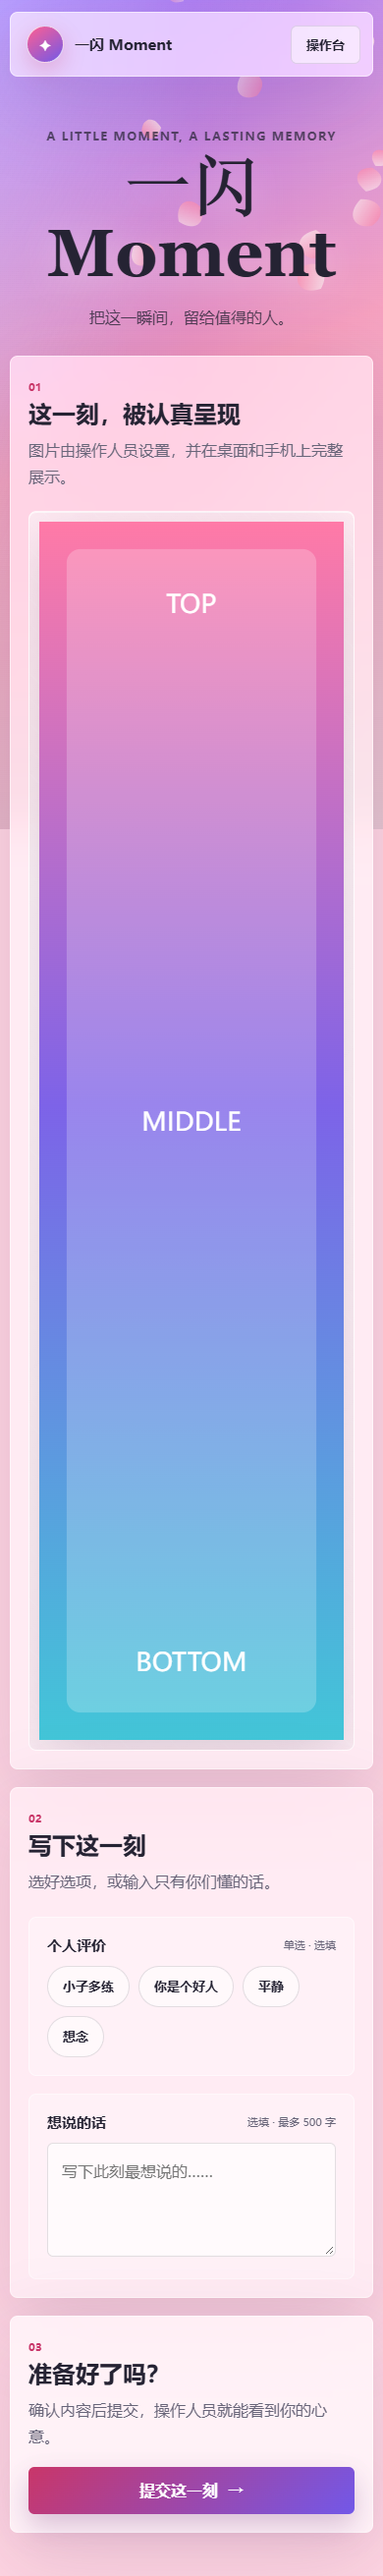
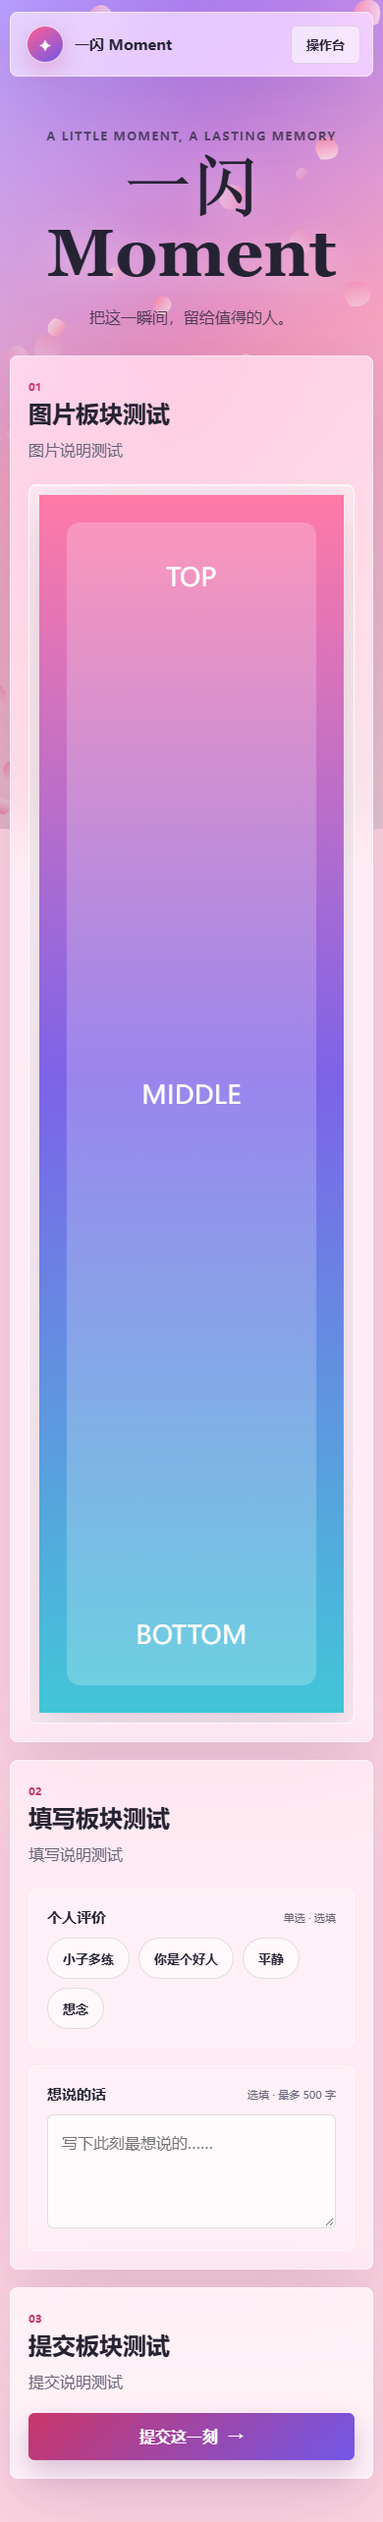
feat: add configurable section copy and align admin buttons

diff --git a/public/admin-edit.html b/public/admin-edit.html
@@ -58,7 +58,20 @@
 
       <section class="editor-section">
         <div class="editor-heading">
-          <div><span class="section-index">02</span><h2>展示图片与预设</h2></div>
+          <div><span class="section-index">02</span><h2>板块名称与说明</h2></div>
+        </div>
+        <div class="editor-grid">
+          <label>图片板块名称<input id="image-title-input" type="text" maxlength="40" required></label>
+          <label>图片板块说明<input id="image-description-input" type="text" maxlength="100" required></label>
+          <label>填写板块名称<input id="response-title-input" type="text" maxlength="40" required></label>
+          <label>填写板块说明<input id="response-description-input" type="text" maxlength="100" required></label>
+          <label>提交板块名称<input id="submit-title-input" type="text" maxlength="40" required></label>
+          <label>提交板块说明<input id="submit-description-input" type="text" maxlength="100" required></label>
+        </div>
+      </section>
+      <section class="editor-section">
+        <div class="editor-heading">
+          <div><span class="section-index">03</span><h2>展示图片与预设</h2></div>
           <div class="editor-actions">
             <label class="text-button" for="image-upload-admin">上传图片<input id="image-upload-admin" type="file" accept="image/*" hidden></label>
             <button id="add-image" class="text-button" type="button">添加图片链接</button>
@@ -69,7 +82,7 @@
 
       <section class="editor-section">
         <div class="editor-heading">
-          <div><span class="section-index">03</span><h2>文本栏与选项栏</h2></div>
+          <div><span class="section-index">04</span><h2>文本栏与选项栏</h2></div>
           <div class="editor-actions">
             <button id="add-text-field" class="text-button" type="button">添加文本栏</button>
             <button id="add-choice-field" class="primary-button" type="button">添加选项栏</button>
@@ -79,7 +92,7 @@
       </section>
       <section class="editor-section qr-section">
         <div class="editor-heading">
-          <div><span class="section-index">04</span><h2>参与者二维码</h2></div>
+          <div><span class="section-index">05</span><h2>参与者二维码</h2></div>
           <div class="editor-actions">
             <button id="generate-qr-secondary" class="text-button" type="button">刷新二维码</button>
             <button id="save-qr-secondary" class="primary-button" type="button">保存二维码</button>
@@ -103,5 +116,6 @@
   <script src="/admin-edit.js"></script>
 </body>
 </html>
+
 
 

diff --git a/public/admin-edit.js b/public/admin-edit.js
@@ -9,6 +9,12 @@ const elements = {
   description: document.querySelector('#description-input'),
   background: document.querySelector('#background-select'),
   imageRequired: document.querySelector('#image-required'),
+  imageTitle: document.querySelector('#image-title-input'),
+  imageDescription: document.querySelector('#image-description-input'),
+  responseTitle: document.querySelector('#response-title-input'),
+  responseDescription: document.querySelector('#response-description-input'),
+  submitTitle: document.querySelector('#submit-title-input'),
+  submitDescription: document.querySelector('#submit-description-input'),
   images: document.querySelector('#images-editor'),
   fields: document.querySelector('#fields-editor'),
   addImage: document.querySelector('#add-image'),
@@ -115,6 +121,12 @@ function syncBasicForm() {
   elements.description.value = config.description;
   elements.background.value = config.background;
   elements.imageRequired.checked = Boolean(config.imageRequired);
+  elements.imageTitle.value = config.sections.image.title;
+  elements.imageDescription.value = config.sections.image.description;
+  elements.responseTitle.value = config.sections.response.title;
+  elements.responseDescription.value = config.sections.response.description;
+  elements.submitTitle.value = config.sections.submit.title;
+  elements.submitDescription.value = config.sections.submit.description;
 }
 
 function moveItem(list, index, direction) {
@@ -128,6 +140,11 @@ function collectConfig() {
   config.description = elements.description.value.trim() || '把这一瞬间，留给值得的人。';
   config.background = elements.background.value;
   config.imageRequired = elements.imageRequired.checked;
+  config.sections = {
+    image: { title: elements.imageTitle.value.trim(), description: elements.imageDescription.value.trim() },
+    response: { title: elements.responseTitle.value.trim(), description: elements.responseDescription.value.trim() },
+    submit: { title: elements.submitTitle.value.trim(), description: elements.submitDescription.value.trim() }
+  };
 
   elements.images.querySelectorAll('[data-image-field]').forEach((input) => {
     const index = Number(input.dataset.index);
@@ -340,3 +357,4 @@ async function init() {
 }
 
 init();
+

diff --git a/public/app.js b/public/app.js
@@ -13,7 +13,13 @@ const elements = {
   submit: document.querySelector('#submit-button'),
   toast: document.querySelector('#toast'),
   title: document.querySelector('h1'),
-  description: document.querySelector('#page-description')
+  description: document.querySelector('#page-description'),
+  imageTitle: document.querySelector('#image-title'),
+  imageDescription: document.querySelector('#image-description'),
+  responseTitle: document.querySelector('#response-title'),
+  responseDescription: document.querySelector('#response-description'),
+  submitTitle: document.querySelector('#submit-title'),
+  submitDescription: document.querySelector('#submit-description')
 };
 
 function showToast(message, duration = 2800) {
@@ -115,6 +121,12 @@ function collectAnswers() {
 function renderParticipant() {
   elements.title.textContent = state.config.title;
   elements.description.textContent = state.config.description;
+  elements.imageTitle.textContent = state.config.sections.image.title;
+  elements.imageDescription.textContent = state.config.sections.image.description;
+  elements.responseTitle.textContent = state.config.sections.response.title;
+  elements.responseDescription.textContent = state.config.sections.response.description;
+  elements.submitTitle.textContent = state.config.sections.submit.title;
+  elements.submitDescription.textContent = state.config.sections.submit.description;
   state.background = state.config.background || 'pink-plum';
   renderDisplayImage();
   renderFields();
@@ -190,5 +202,7 @@ async function init() {
 }
 
 init();
+
+
 
 

diff --git a/public/index.html b/public/index.html
@@ -33,8 +33,8 @@
       <div class="section-heading">
         <div>
           <span class="section-index">01</span>
-          <h2>这一刻，被认真呈现</h2>
-          <p>图片由操作人员设置，并在桌面和手机上完整展示。</p>
+          <h2 id="image-title">这一刻，被认真呈现</h2>
+          <p id="image-description">图片由操作人员设置，并在桌面和手机上完整展示。</p>
         </div>
       </div>
 
@@ -47,8 +47,8 @@
       <div class="section-heading">
         <div>
           <span class="section-index">02</span>
-          <h2>写下这一刻</h2>
-          <p>选好选项，或输入只有你们懂的话。</p>
+          <h2 id="response-title">写下这一刻</h2>
+          <p id="response-description">选好选项，或输入只有你们懂的话。</p>
         </div>
       </div>
       <div id="fields-container" class="fields-container"></div>
@@ -57,8 +57,8 @@
     <section class="submit-section glass-card">
       <div>
         <span class="section-index">03</span>
-        <h2>准备好了吗？</h2>
-        <p>确认内容后提交，操作人员就能看到你的心意。</p>
+        <h2 id="submit-title">准备好了吗？</h2>
+        <p id="submit-description">确认内容后提交，操作人员就能看到你的心意。</p>
       </div>
       <button id="submit-button" class="submit-button" type="button">
         <span>提交这一刻</span>
@@ -73,6 +73,7 @@
   <script src="/app.js"></script>
 </body>
 </html>
+
 
 
 

diff --git a/lib/store.js b/lib/store.js
@@ -11,6 +11,11 @@ const defaultConfig = {
   background: 'pink-plum',
   imageRequired: true,
   displayImageId: 'plum-window',
+  sections: {
+    image: { title: '这一刻，被认真呈现', description: '图片由操作人员设置，并在桌面和手机上完整展示。' },
+    response: { title: '写下这一刻', description: '选好选项，或输入只有你们懂的话。' },
+    submit: { title: '准备好了吗？', description: '确认内容后提交，操作人员就能看到你的心意。' }
+  },
   images: [
     { id: 'plum-window', label: '梅花窗景', url: '/presets/plum-window.svg' },
     { id: 'city-light', label: '城市流光', url: '/presets/city-light.svg' },
@@ -63,6 +68,11 @@ function normalizeConfig(config) {
   const images = Array.isArray(normalized.images) ? normalized.images : [];
   normalized.images = images;
   normalized.fields = Array.isArray(normalized.fields) ? normalized.fields : [];
+  normalized.sections = {
+    image: { ...defaultConfig.sections.image, ...(config.sections?.image || {}) },
+    response: { ...defaultConfig.sections.response, ...(config.sections?.response || {}) },
+    submit: { ...defaultConfig.sections.submit, ...(config.sections?.submit || {}) }
+  };
   if (!images.some((image) => image.id === normalized.displayImageId)) {
     normalized.displayImageId = images[0]?.id || '';
   }
@@ -131,5 +141,6 @@ module.exports = {
   listSubmissions,
   addSubmission
 };
+
 
 

diff --git a/tests/store.test.js b/tests/store.test.js
@@ -20,6 +20,20 @@ test('loads and saves config in a data directory', () => {
   assert.equal(loadConfig(dir).title, '测试时刻');
 });
 
+test('normalizes section copy with defaults and custom values', () => {
+  const dir = tempDir();
+  const config = loadConfig(dir);
+  assert.equal(config.sections.image.title, '这一刻，被认真呈现');
+  assert.equal(config.sections.response.title, '写下这一刻');
+  assert.equal(config.sections.submit.title, '准备好了吗？');
+
+  config.sections.image.title = '照片板块';
+  config.sections.response.description = '请填写你的想法';
+  saveConfig(config, dir);
+  const saved = loadConfig(dir);
+  assert.equal(saved.sections.image.title, '照片板块');
+  assert.equal(saved.sections.response.description, '请填写你的想法');
+});
 test('normalizes displayImageId to an existing image', () => {
   const dir = tempDir();
   saveConfig({
@@ -72,4 +86,5 @@ test('rejects missing required text and invalid choices', () => {
   }, config);
   assert.equal(valid.ok, true);
 });
+
 

diff --git a/tests/frontend-smoke.test.js b/tests/frontend-smoke.test.js
@@ -16,6 +16,12 @@ test('participant page includes display image, fields, background picker, and su
   assert.doesNotMatch(html, /id="clear-image"/);
   assert.match(html, /id="display-image"/);
   assert.match(html, /id="display-image-frame"/);
+  assert.match(html, /id="image-title"/);
+  assert.match(html, /id="image-description"/);
+  assert.match(html, /id="response-title"/);
+  assert.match(html, /id="response-description"/);
+  assert.match(html, /id="submit-title"/);
+  assert.match(html, /id="submit-description"/);
   assert.match(html, /id="fields-container"/);
   assert.match(html, /id="submit-button"/);
   assert.doesNotMatch(html, /id="background-picker"/);
@@ -62,6 +68,7 @@ test('participant app wires API calls and accessible form labels', () => {
   assert.doesNotMatch(js, /data-theme/);
   assert.doesNotMatch(js, /FormData/);
 });
+
 
 
 

diff --git a/tests/admin-smoke.test.js b/tests/admin-smoke.test.js
@@ -33,6 +33,12 @@ test('admin editor includes controls for copy, images, background, text, and cho
   assert.match(html, /id="background-select"/);
   assert.match(html, /id="add-text-field"/);
   assert.match(html, /id="add-choice-field"/);
+  assert.match(html, /id="image-title-input"/);
+  assert.match(html, /id="image-description-input"/);
+  assert.match(html, /id="response-title-input"/);
+  assert.match(html, /id="response-description-input"/);
+  assert.match(html, /id="submit-title-input"/);
+  assert.match(html, /id="submit-description-input"/);
 });
 
 test('admin editor includes display-image selection and QR controls', () => {
@@ -60,4 +66,5 @@ test('admin editor script saves config through the API', () => {
   assert.match(js, /add-text-field/);
   assert.match(js, /add-choice-field/);
 });
+
 

diff --git a/public/styles.css b/public/styles.css
@@ -315,6 +315,9 @@ a:focus-visible {
 }
 
 .text-button {
+  display: inline-flex;
+  align-items: center;
+  justify-content: center;
   min-height: 44px;
   padding: 0 14px;
   border: 1px solid rgba(37, 35, 51, 0.12);
@@ -322,6 +325,8 @@ a:focus-visible {
   color: var(--ink);
   background: rgba(255, 255, 255, 0.72);
   font-weight: 700;
+  line-height: 1;
+  text-decoration: none;
 }
 
 .subsection {
@@ -701,6 +706,8 @@ a:focus-visible {
     filter: none;
   }
 }
+
+
 
 
 

diff --git a/UI-TEST-REPORT.md b/UI-TEST-REPORT.md
@@ -1,45 +1,46 @@
-# 一闪 Moment 管理员验证测试报告
+# 一闪 Moment 板块文案与按钮样式测试报告
 
 测试时间：2026-11-05  
 测试方式：本地 Node.js 服务 + API 自动化 + Microsoft Edge 无头浏览器自动化
 
 ## 本轮新增
 
-- 顶部“操作台”按钮点击后进入管理员验证。
-- `/admin`、`/admin/edit` 未登录时自动跳转 `/admin/login`。
-- 登录接口拒绝错误账号或密码。
-- 登录成功后使用 HttpOnly 会话 Cookie。
-- 退出登录后会话失效。
-- 配置保存、图片上传、提交记录、CSV 导出和二维码生成接口均需要管理员验证。
-- 参与者提交接口保持公开，不需要管理员登录。
+- 页面配置可分别修改“这一刻被认真呈现”板块名称和说明。
+- 页面配置可分别修改“写下这一刻”板块名称和说明。
+- 页面配置可分别修改“准备好了吗”板块名称和说明。
+- 参与者页面会实时使用配置中的三个板块文案。
+- “预览页面”链接取消下划线。
+- “预览页面”“上传图片”“添加图片链接”等相邻按钮统一文本高度。
+- 管理员验证、图片展示、二维码、提交和导出功能保持正常。
 
 ## 自动化结果
 
 | 项目 | 结果 |
 | --- | --- |
-| 未登录访问 `/admin` | 跳转登录页 |
-| 错误密码登录 | 401 |
-| 正确账号密码登录 | 200 |
-| 登录后访问 `/admin` | 200 |
-| 登录后保存配置 | 200 |
-| 退出登录 | 200 |
-| 退出后访问会话接口 | 401 |
-| 参与者页面 | 不受管理员登录影响 |
-| 参与者提交 | 保持可用 |
-| 图片、选项、二维码和响应式页面测试 | 通过 |
+| 图片板块名称修改 | 通过 |
+| 图片板块说明修改 | 通过 |
+| 填写板块名称修改 | 通过 |
+| 填写板块说明修改 | 通过 |
+| 提交板块名称修改 | 通过 |
+| 提交板块说明修改 | 通过 |
+| 配置保存后参与者页面同步 | 通过 |
+| 按钮文本高度统一 | 通过，10 个按钮均为 42px |
+| “预览页面”下划线取消 | 通过 |
+| 图片完整展示 | 通过 |
+| 320px / 390px / 768px / 1440px 无横向溢出 | 通过 |
+| 管理员登录与操作台功能 | 通过 |
 | 浏览器控制台错误 | 无 |
 
-## 账号说明
+## 板块文案验证值
 
-本地演示使用账号 `admin` 和指定管理员密码。密码不写入源代码或 GitHub 仓库，运行时通过本地认证文件或环境变量验证。
+自动化测试写入并验证：
 
-部署 Railway 时建议配置：
-
-```text
-ADMIN_USERNAME=admin
-ADMIN_PASSWORD=你的管理员密码
-```
+| 板块 | 名称 | 说明 |
+| --- | --- | --- |
+| 图片 | 图片板块测试 | 图片说明测试 |
+| 填写 | 填写板块测试 | 填写说明测试 |
+| 提交 | 提交板块测试 | 提交说明测试 |
 
 ## 测试结论
 
-“操作台”入口已经加入管理员验证，管理员页面和操作接口均受保护，参与者页面和提交功能不受影响。自动化测试全部通过。
+三个页面板块的名称和说明已经可以在页面配置中独立修改，并同步到参与者页面。配置页相邻按钮的文本高度保持一致，“预览页面”不再显示下划线。自动化测试全部通过。

diff --git a/README.md b/README.md
@@ -178,3 +178,4 @@ const port = Number(process.env.PORT) || 3000;
 - 增加提交通知、批量删除、标签统计和高级筛选。
 
 
+
